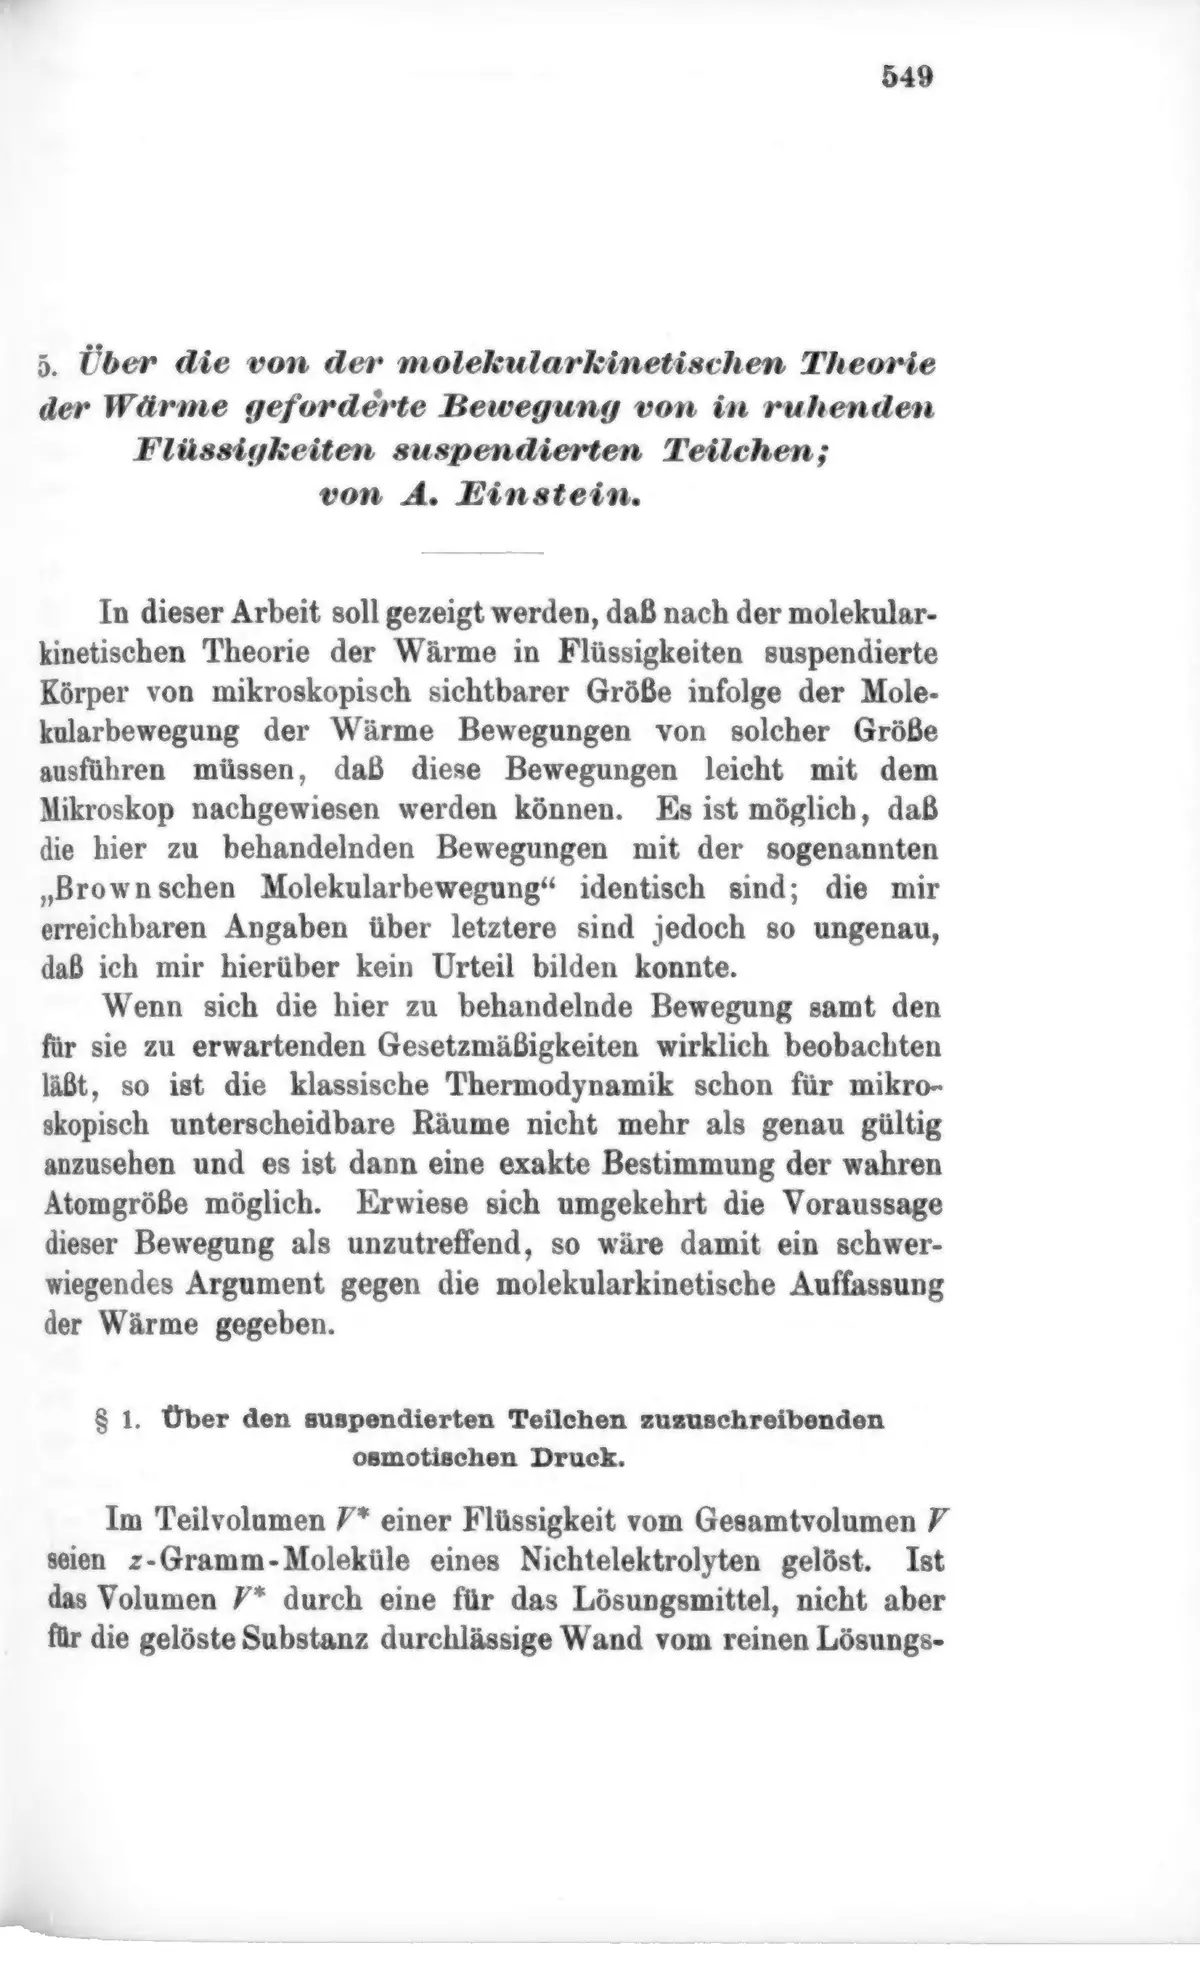
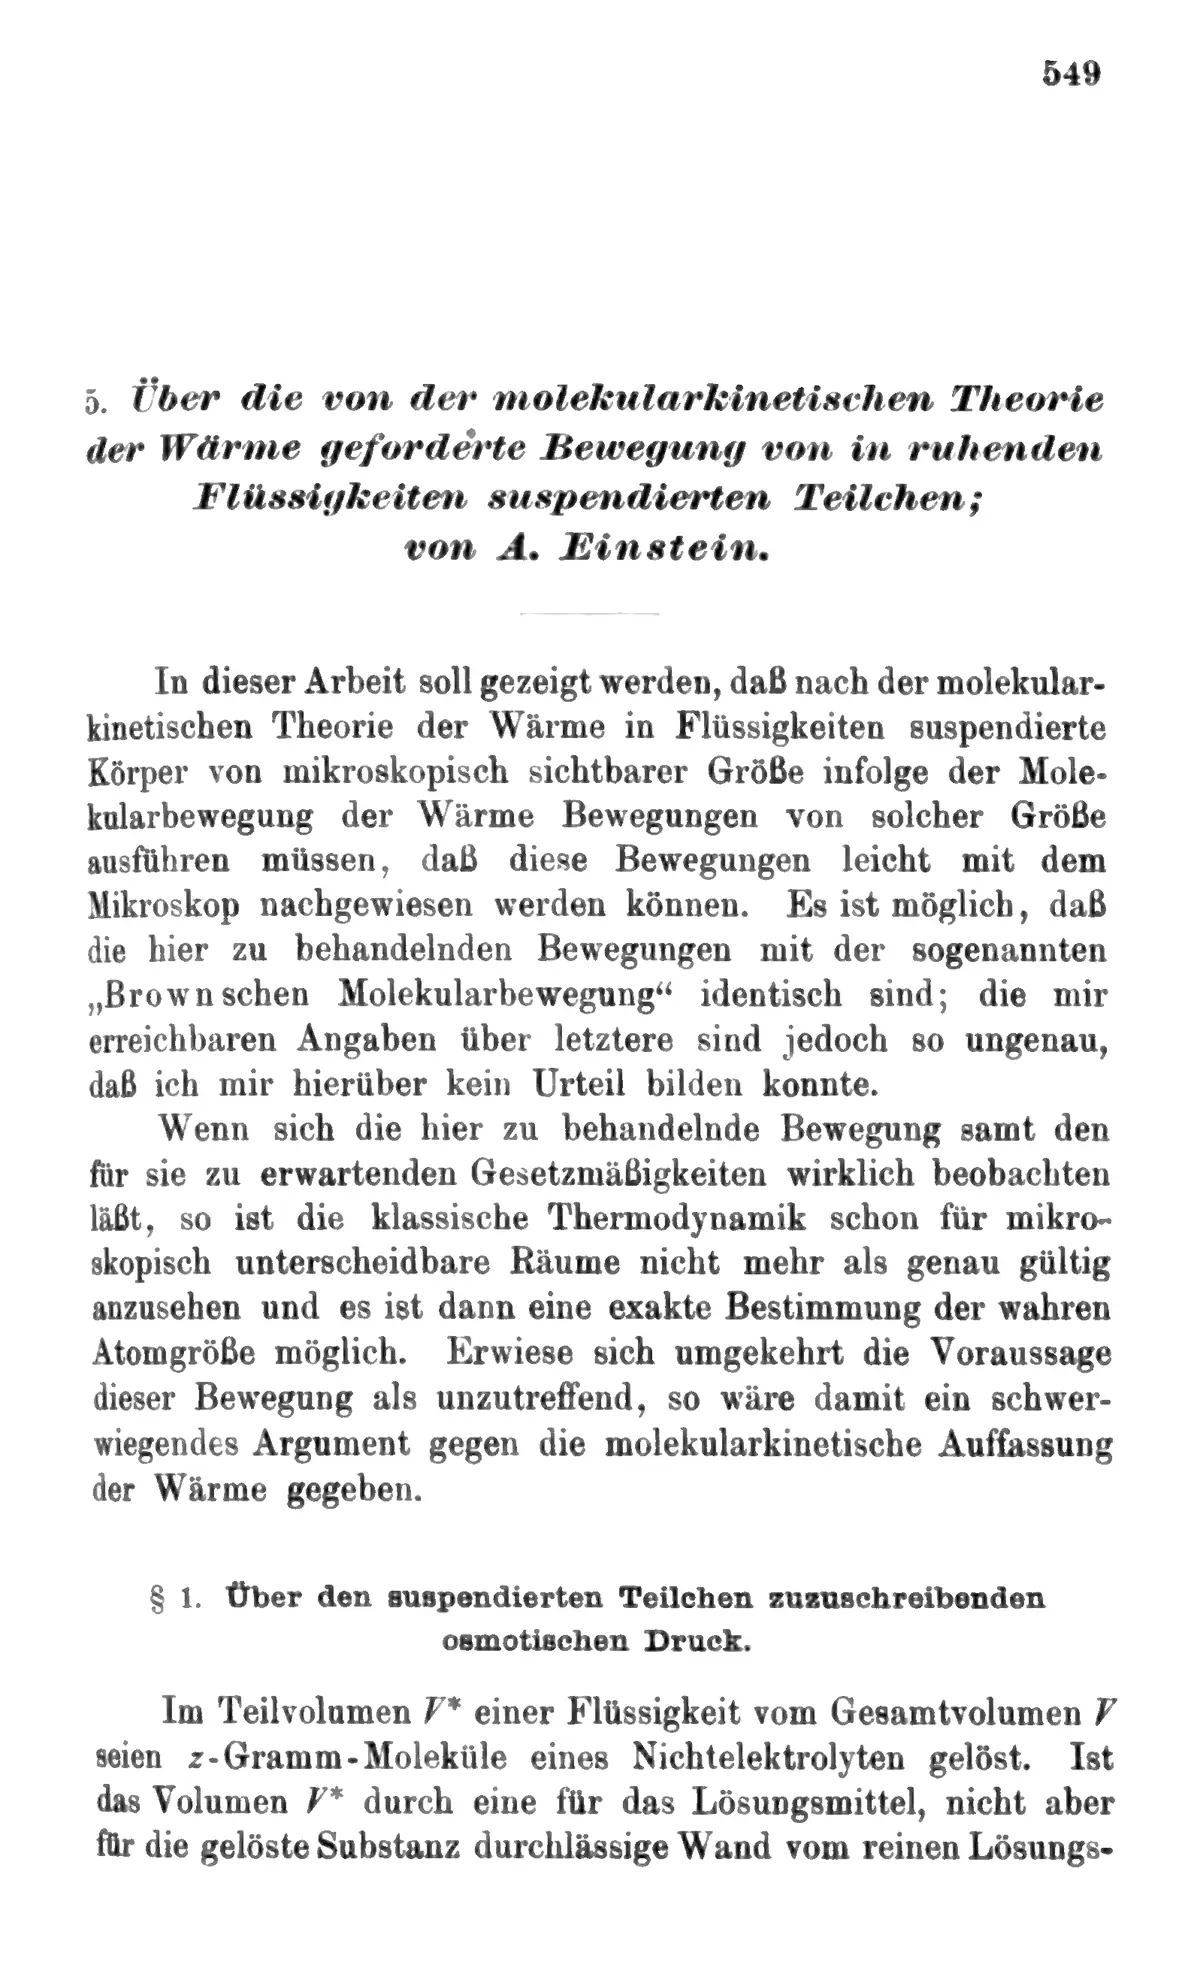
design(plates): the four first pages are whole, clean and at one scale
The owner: "the images you used of the papers look horrible, they're cut off
and distorted!!!" They were fixed rectangles cut from the microfilm frames at
hand-picked offsets (9a759f3c). On the live home page at 1440, p. 132 had lost
its right margin mid-word ("welche sich di"), p. 891 its left ("sartig"), and
each frame's position set a different type size. The frames also carry black
film borders, the binding gutter and slivers of the facing page.

scripts/figures/first_page_plates.py (new; uv run --with pillow --with numpy)
renders page 1 of each pinned PDF at 400 dpi with pdftoppm (pixels only, no
text layer, no OCR) and:
- finds the printed block from ink-edge profiles, excluding border and gutter,
  from running head to last mark (p. 639's signature "42*" is now whole). Blocks
  measure 1354-1365 x 2405-2461 px, the same type area, as they should;
- divides out the paper's shading (gutter shadow, vignette) and lifts paper
  tone and show-through to white;
- sets all four at one scale on the existing 400:662 page with even margins,
  padding and never stretching, so the four pages show one type size.

Same files and sizes as before: *-first-page-{400,800,1200}.webp and
share/<key>.jpg at 660x1092. The binding still compresses a few letters at the
gutter edge of pp. 132 and 891; that is in the scan. All four receipts say
scan-open-terms / publish.

Tests: shareCards, routeIndex, firstPages, papers page: 32 pass, 0 fail.
check:architecture: 0 violations.

diff --git a/scripts/figures/first_page_plates.py b/scripts/figures/first_page_plates.py
@@ -1,0 +1,118 @@
+"""
+The four first-page plates (home, /papers/, /discover/, 404) and their share-card JPEGs.
+
+Usage, from the repository root:
+    uv run --with pillow --with numpy python scripts/figures/first_page_plates.py
+
+WHAT IT READS. Page 1 of each pinned PDF, rasterized at 400 dpi with pdftoppm, which draws page pixels
+and is not an OCR engine (AGENTS.md, "Cloud OCR only"). No text layer is read, and nothing here
+recognizes text: the page's printed area is found from where its ink edges are, which is geometry.
+
+WHY. Until 2026-09-23 the plates were fixed rectangles cut at hand-picked offsets from the microfilm
+frames (9a759f3c). The owner found them "cut off and distorted": p. 132 lost its right margin, p. 891
+its left, and each frame's own position set the type size. Each frame holds the printed page plus a
+binding gutter, black film borders and slivers of the facing page. This script:
+  1. finds the page's printed block (running head to last mark, the printer's signature included)
+     from ink-edge profiles, excluding film border and gutter;
+  2. divides out the paper's own shading (gutter shadow, microfilm vignette) and lifts paper tone and
+     show-through to white, keeping the ink;
+  3. sets all four blocks at ONE scale on a common 400:662 page with even margins, padding and never
+     stretching, so the four pages show the same type size.
+The binding still compresses a few letters at the gutter edge of pp. 132 and 891. That is in the
+scan, and no crop can restore it.
+"""
+from PIL import Image, ImageFilter
+import numpy as np, json, os, subprocess, tempfile
+ROOT=os.path.dirname(os.path.dirname(os.path.dirname(os.path.abspath(__file__))))
+KEYS=["ap-17-132","ap-17-549","ap-17-891","ap-18-639"]
+out=os.path.join(ROOT,"public/figures/plates")
+def render():
+    work=tempfile.mkdtemp(prefix="first-page-plates-")
+    files=[]
+    for k in KEYS:
+        stem=os.path.join(work,k)
+        subprocess.run(["pdftoppm","-f","1","-l","1","-r","400","-gray","-singlefile","-png",
+                        os.path.join(ROOT,"public/papers/pdfs",k+".pdf"),stem],check=True)
+        files.append(stem+".png")
+    return files
+def runs(mask):
+    o=[];s=None
+    for i,b in enumerate(list(mask)+[False]):
+        if b and s is None: s=i
+        if not b and s is not None: o.append([s,i]); s=None
+    return o
+def merge(rs,gap):
+    o=[]
+    for r in rs:
+        if o and r[0]-o[-1][1]<=gap: o[-1][1]=r[1]
+        else: o.append(list(r))
+    return o
+def runmed(v,k):
+    p=k//2; vp=np.pad(v,p,mode="edge"); return np.array([np.median(vp[i:i+k]) for i in range(len(v))])
+def detect(a):
+    H,W=a.shape
+    e=np.zeros_like(a,bool); e[:,1:]|=np.abs(np.diff(a,axis=1))>50; e[1:,:]|=np.abs(np.diff(a,axis=0))>50
+    h8,w8=H//16,W//16
+    blk=a[:h8*16,:w8*16].reshape(h8,16,w8,16).mean((1,3)); db=blk<120
+    dd=db.copy()
+    for dy in (-1,0,1):
+        for dx in (-1,0,1): dd|=np.roll(np.roll(db,dy,0),dx,1)
+    dark=np.kron(dd,np.ones((16,16),bool)); dark=np.pad(dark,((0,H-dark.shape[0]),(0,W-dark.shape[1])),constant_values=True)
+    e&=~dark
+    ylo,yhi=int(H*.12),int(H*.88)
+    colm=runmed(e[ylo:yhi].sum(0).astype(float),9)
+    cr=merge(runs(colm>(yhi-ylo)*0.01),12)
+    x0,x1=max(cr,key=lambda r:r[1]-r[0])
+    cmean=a[ylo:yhi].mean(0)
+    while cmean[x0]<185 and x0<x1: x0+=1          # gutter stripe at the run's edge
+    while cmean[x1-1]<185 and x1>x0: x1-=1
+    row=e[:,x0:x1].sum(1).astype(float)
+    rr=merge(runs(row>(x1-x0)*0.01),40)
+    rmean=a[:,x0:x1].mean(1)
+    rr=[r for r in rr if r[1]-r[0]>15 and r[0]>30 and r[1]<H-30 and rmean[r[0]:r[1]].mean()>170]
+    y0,y1=rr[0][0],rr[-1][1]
+    # a small trailing mark under the last line (the printer's signature, "42*") belongs to the page
+    gap=0; y=y1
+    while y<min(H-30,y1+120):
+        if row[y]>=3: y1=y+1; gap=0
+        else:
+            gap+=1
+            if gap>24: break
+        y+=1
+    return x0,x1,y0,y1
+def flatten(a):
+    # background: 95th percentile per 48px block, smoothed, then divide it out
+    H,W=a.shape; B=48; h,w=-(-H//B),-(-W//B)
+    pad=np.pad(a,((0,h*B-H),(0,w*B-W)),mode="edge")
+    bg=np.percentile(pad.reshape(h,B,w,B).transpose(0,2,1,3).reshape(h,w,B*B),95,axis=2)
+    bgi=Image.fromarray(np.clip(bg,1,255).astype(np.uint8)).filter(ImageFilter.MaxFilter(3)).resize((W,H),Image.BILINEAR).filter(ImageFilter.GaussianBlur(24))
+    n=a/np.maximum(np.asarray(bgi,dtype=np.float32),60)*255
+    # levels: paper and show-through to white, ink kept dark and crisp
+    n=np.clip((n-35)/(215-35),0,1)
+    return (n**1.15*255).astype(np.uint8)
+boxes={}
+srcs=render()
+for f in srcs:
+    key=os.path.basename(f)[:9]
+    a=np.asarray(Image.open(f).convert("L"),dtype=np.float32)
+    boxes[key]=detect(a)
+TW=max(b[1]-b[0] for b in boxes.values()); TH=max(b[3]-b[2] for b in boxes.values())
+SIDE=int(TW*0.085); TOP=int(TW*0.06)
+CW=TW+2*SIDE; CH=round(CW*662/400)
+assert CH>=TH+TOP+int(TW*0.05), (CW,CH,TH)
+report={}
+for f in srcs:
+    key=os.path.basename(f)[:9]; x0,x1,y0,y1=boxes[key]
+    a=np.asarray(Image.open(f).convert("L"),dtype=np.float32)
+    m=6  # antialiased stroke edges only; any wider reaches the gutter shadow
+    cx0,cx1,cy0,cy1=max(0,x0-m),min(a.shape[1],x1+m),max(0,y0-m),min(a.shape[0],y1+m)
+    crop=flatten(a)[cy0:cy1,cx0:cx1]
+    canvas=Image.new("L",(CW,CH),255)
+    px=SIDE+(TW-(x1-x0))//2-(x0-cx0); py=TOP-(y0-cy0)
+    canvas.paste(Image.fromarray(crop),(px,py))
+    for w in (400,800,1200):
+        im=canvas.resize((w,round(w*662/400)),Image.LANCZOS)
+        im.save(f"{out}/{key}-first-page-{w}.webp","WEBP",quality=72,method=6)
+    canvas.resize((660,1092),Image.LANCZOS).convert("RGB").save(f"{out}/share/{key}.jpg","JPEG",quality=84,optimize=True,progressive=True)
+    report[key]=dict(textBlock=[x0,y0,x1-x0,y1-y0],canvas=[CW,CH])
+print(json.dumps(report))
